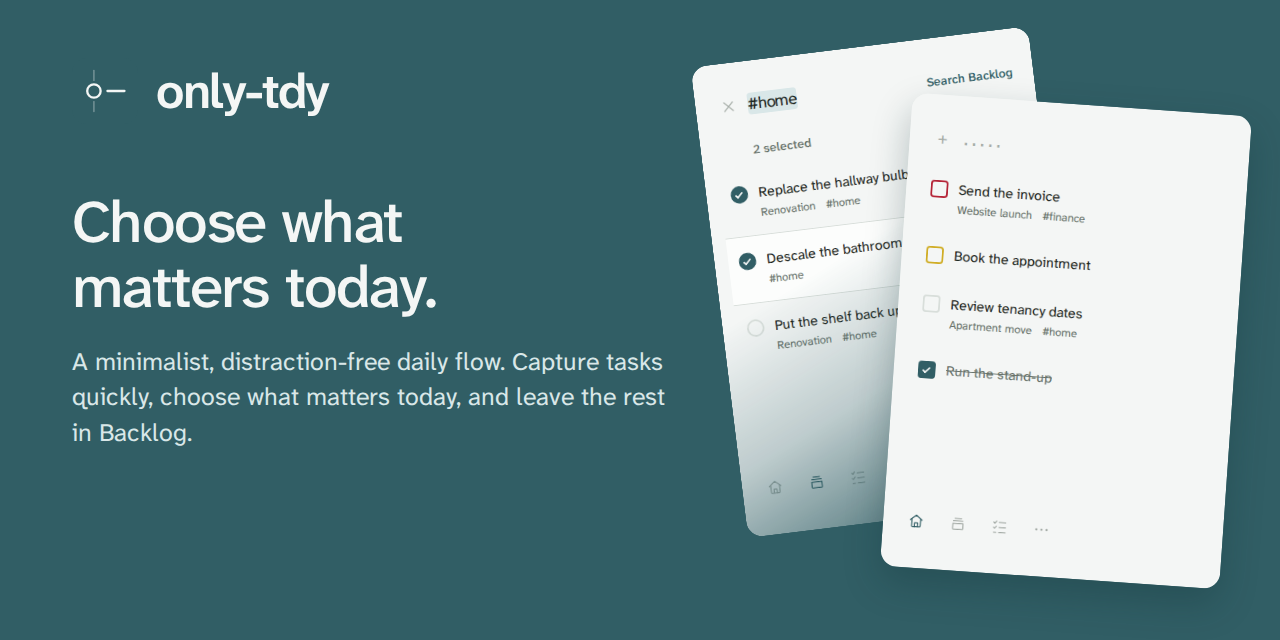
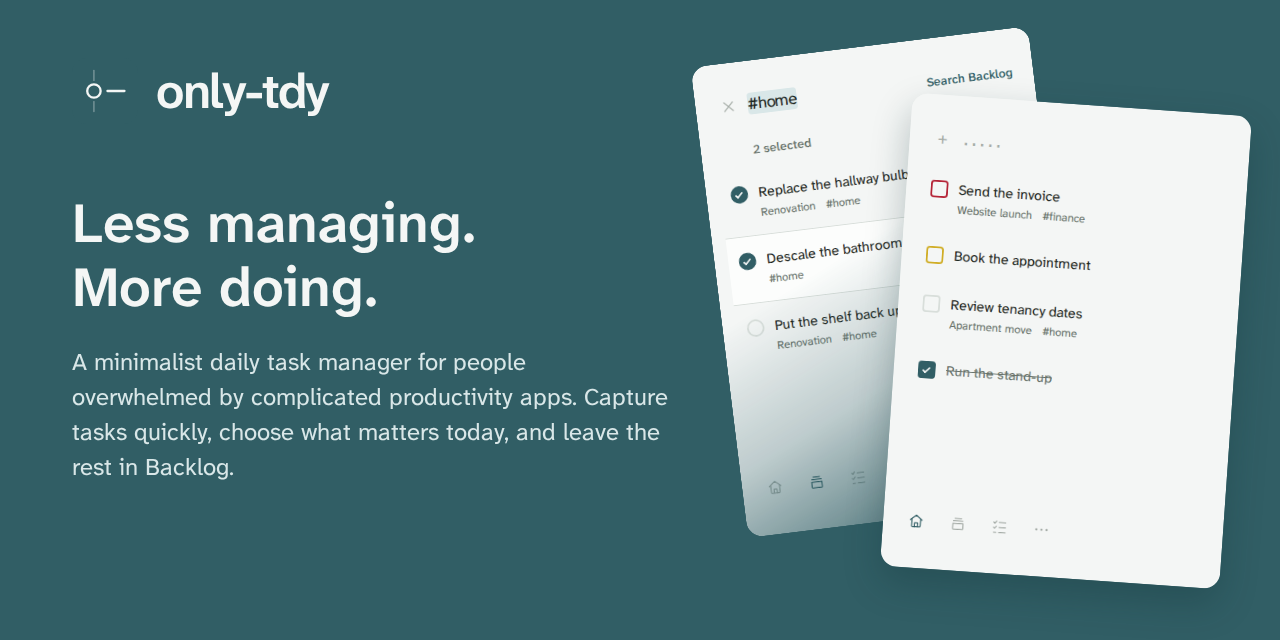
Clarify daily-task positioning across app and public copy

Changed region(s): [[0.0625, 0.5312, 0.5312, 0.6875], [0.0625, 0.3125, 0.375, 0.5], [0.0625, 0.7188, 0.1875, 0.75]]

diff --git a/src/app/VersionScreen.tsx b/src/app/VersionScreen.tsx
@@ -58,8 +58,9 @@ export function VersionScreen({
         </h1>
         <p className="focus-about__intro mt-2 mr-0 mb-0 ml-0 text-task">
           Capture tasks quickly, choose what matters today, and leave the rest
-          in Backlog. A minimalist daily flow, with projects, tags, priorities
-          and dates available as you type.
+          in Backlog. A minimalist daily task manager for people overwhelmed by
+          complicated productivity apps, without the overhead of managing an
+          entire productivity system.
         </p>
       </section>
       <dl className="focus-version m-0">

diff --git a/index.html b/index.html
@@ -9,7 +9,7 @@
     <title>only-tdy</title>
     <meta
       name="description"
-      content="Capture tasks quickly, choose what matters today, and leave the rest in Backlog."
+      content="A minimalist daily task manager for people overwhelmed by productivity apps. Capture tasks quickly, choose what matters today, and leave the rest in Backlog."
     />
     <!--
       Browser and PWA chrome follow the system scheme until the mark at the

diff --git a/README.md b/README.md
@@ -1,8 +1,8 @@
 # only-tdy
 
-Capture tasks quickly, choose what matters today, and leave the rest in Backlog.
+Less managing. More doing.
 
-only-tdy makes organizing todos approachable through a minimalist, distraction-free daily flow. Pick tasks from Backlog, work through Today, and edit details without leaving that flow.
+only-tdy is a minimalist daily task manager for people overwhelmed by complicated productivity apps. Capture tasks quickly, choose what matters today, and leave the rest in Backlog, without the overhead of managing an entire productivity system.
 
 <p>
   <img width="280" src="docs/images/today-at-rest.png" alt="Today at rest with an unobtrusive capture bar and a completed task">
